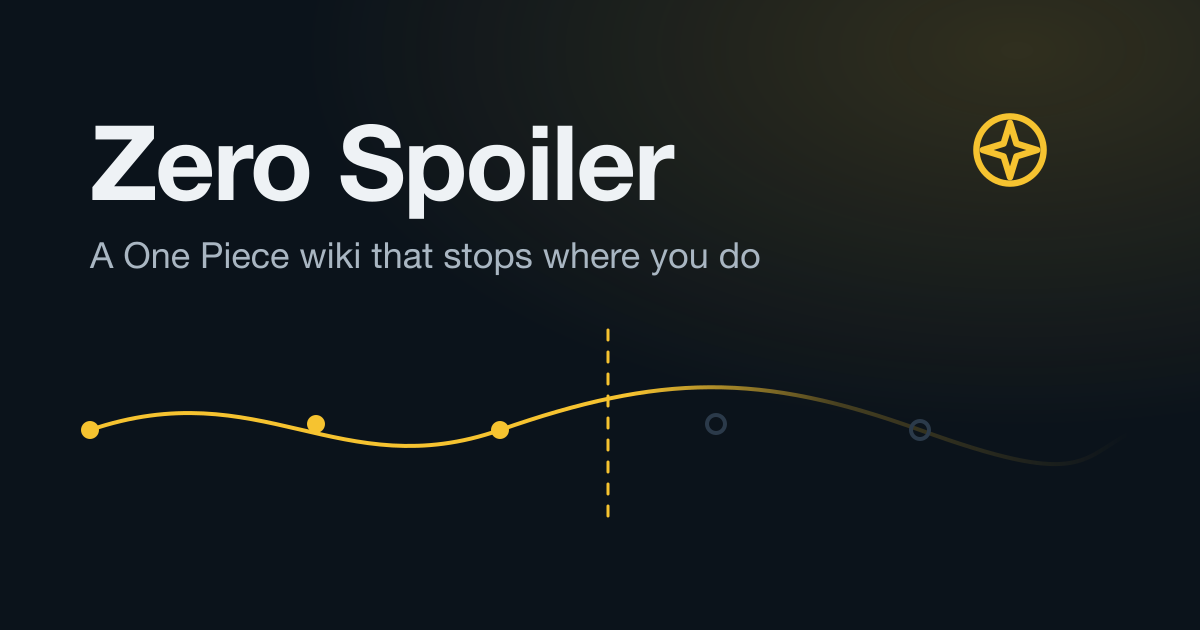
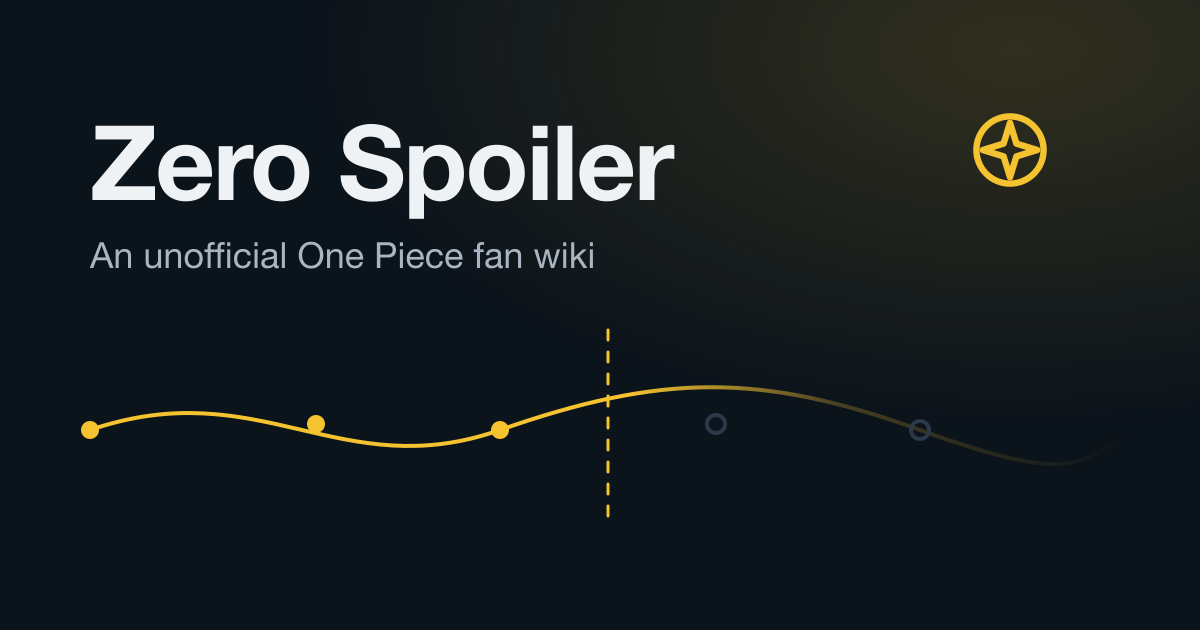
feat: identify unofficial fan project and provide rights contact

Changed region(s): [[0.0925, 0.3619, 0.6475, 0.4524]]

diff --git a/src/i18n/dictionaries/it.ts b/src/i18n/dictionaries/it.ts
@@ -12,9 +12,9 @@ export const itDictionary: Dictionary = {
   'site.name': 'Zero Spoiler',
   'site.title': 'Zero Spoiler | La wiki di One Piece senza spoiler',
   'site.description':
-    'Una wiki di One Piece che nasconde personaggi, saghe, luoghi e frutti del diavolo oltre l’ultimo episodio visto o l’ultimo capitolo letto.',
+    'Una wiki amatoriale non ufficiale di One Piece che nasconde personaggi, saghe, luoghi e frutti del diavolo oltre l’ultimo episodio visto o l’ultimo capitolo letto.',
   'seo.imageAlt':
-    'La card di Zero Spoiler: il logo sopra una rotta che sparisce nella nebbia.',
+    'La card della wiki amatoriale non ufficiale Zero Spoiler: il logo sopra una rotta che sparisce nella nebbia.',
 
   'nav.skip': 'Vai al contenuto',
   'nav.characters': 'Personaggi',
@@ -149,7 +149,16 @@ export const itDictionary: Dictionary = {
   'footer.lead':
     'Una wiki di One Piece che nasconde quello che viene dopo il tuo segnalibro.',
   'footer.colophon':
-    'Tutti i disegni sono fatti per questo sito e non ci sono immagini ufficiali. Il segnalibro viene salvato in un cookie su questo dispositivo. Licenza MIT.',
+    'Tutti i disegni sono fatti per questo sito e non ci sono immagini ufficiali. Il segnalibro viene salvato in un cookie su questo dispositivo. Codice del sito sotto licenza MIT; i diritti su One Piece sono esclusi.',
+
+  'footer.unofficial':
+    'Progetto amatoriale non ufficiale e senza scopo di lucro. Non è affiliato né approvato dai titolari dei diritti di One Piece.',
+  'footer.credits':
+    'One Piece è un’opera di Eiichiro Oda. Crediti dell’anime: © Eiichiro Oda/Shueisha, Toei Animation.',
+  'footer.creditSource': 'Fonte ufficiale dei crediti',
+  'footer.contact': 'Richieste sui diritti e correzioni su GitHub',
+  'footer.contactHelp':
+    'Indica l’URL della pagina, il materiale interessato e la richiesta sui diritti o la correzione. Evita spoiler nel titolo. Le issue GitHub sono pubbliche e richiedono un account. Non inserire informazioni riservate.',
 
   'characters.title': 'Personaggi',
   'characters.count':

diff --git a/src/components/SiteFooter.test.tsx b/src/components/SiteFooter.test.tsx
@@ -17,7 +17,23 @@ describe('SiteFooter', () => {
     expect(screen.getByRole('contentinfo')).toHaveTextContent(
       'Your bookmark is saved in a cookie on this device.',
     )
-    expect(screen.queryAllByRole('link')).toHaveLength(0)
+    expect(screen.getByRole('contentinfo')).toHaveTextContent(
+      'Unofficial, nonprofit fan project. Not affiliated with or endorsed by One Piece rights holders.',
+    )
+    expect(
+      screen.getByRole('link', {
+        name: 'Rights inquiries and corrections on GitHub',
+      }),
+    ).toHaveAttribute(
+      'href',
+      'https://github.com/cosimochellini/one-piece-zero-spoiler/issues/new?template=blank.md',
+    )
+    expect(screen.getByRole('contentinfo')).toHaveTextContent(
+      'Keep spoilers out of the title. GitHub issues are public and require an account. Do not post confidential information.',
+    )
+    expect(
+      screen.getByRole('link', { name: 'Official credit source' }),
+    ).toHaveAttribute('href', 'https://www.toei-animation.com/copyrights/')
   })
 
   it('follows the active locale', () => {
@@ -28,5 +44,22 @@ describe('SiteFooter', () => {
         'Una wiki di One Piece che nasconde quello che viene dopo il tuo segnalibro.',
       ),
     ).toBeInTheDocument()
+    expect(screen.getByRole('contentinfo')).toHaveTextContent(
+      'Progetto amatoriale non ufficiale e senza scopo di lucro.',
+    )
+    expect(screen.getByRole('contentinfo')).toHaveTextContent(
+      'Non è affiliato né approvato dai titolari dei diritti di One Piece.',
+    )
+    expect(
+      screen.getByRole('link', {
+        name: 'Richieste sui diritti e correzioni su GitHub',
+      }),
+    ).toHaveAttribute(
+      'href',
+      'https://github.com/cosimochellini/one-piece-zero-spoiler/issues/new?template=blank.md',
+    )
+    expect(screen.getByRole('contentinfo')).toHaveTextContent(
+      'Evita spoiler nel titolo. Le issue GitHub sono pubbliche e richiedono un account. Non inserire informazioni riservate.',
+    )
   })
 })

diff --git a/src/i18n/dictionaries/en.ts b/src/i18n/dictionaries/en.ts
@@ -18,9 +18,9 @@ export const enDictionary = {
   'site.name': 'Zero Spoiler',
   'site.title': 'Zero Spoiler | The One Piece wiki without spoilers',
   'site.description':
-    'A One Piece wiki that hides every character, arc, place and devil fruit you have not reached yet. Set the episode or chapter you are on and read up to there.',
+    'An unofficial One Piece fan wiki that hides every character, arc, place and devil fruit you have not reached yet. Set the episode or chapter you are on and read up to there.',
   'seo.imageAlt':
-    'The Zero Spoiler card: the logo above a route that disappears into fog.',
+    'The Zero Spoiler unofficial fan wiki card: the logo above a route that disappears into fog.',
 
   'nav.skip': 'Skip to content',
   'nav.characters': 'Characters',
@@ -150,7 +150,16 @@ export const enDictionary = {
 
   'footer.lead': 'A One Piece wiki that hides what comes after your bookmark.',
   'footer.colophon':
-    'All the drawings are made for this site; no official artwork is used. Your bookmark is saved in a cookie on this device. MIT licence.',
+    'All the drawings are made for this site; no official artwork is used. Your bookmark is saved in a cookie on this device. Site code under the MIT licence; One Piece rights are excluded.',
+
+  'footer.unofficial':
+    'Unofficial, nonprofit fan project. Not affiliated with or endorsed by One Piece rights holders.',
+  'footer.credits':
+    'One Piece was created by Eiichiro Oda. Anime credit: © Eiichiro Oda/Shueisha, Toei Animation.',
+  'footer.creditSource': 'Official credit source',
+  'footer.contact': 'Rights inquiries and corrections on GitHub',
+  'footer.contactHelp':
+    'Include the page URL, the material concerned and the rights inquiry or correction requested. Keep spoilers out of the title. GitHub issues are public and require an account. Do not post confidential information.',
 
   'characters.title': 'Characters',
   'characters.count':

diff --git a/src/components/SiteFooter.tsx b/src/components/SiteFooter.tsx
@@ -21,6 +21,25 @@ export function SiteFooter(): ReactElement {
         <b {...stylex.props(styles.lead)}>{t('footer.lead')}</b>{' '}
         {t('footer.colophon')}
       </p>
+      <p {...stylex.props(styles.colophon)}>{t('footer.unofficial')}</p>
+      <p {...stylex.props(styles.colophon)}>
+        {t('footer.credits')}{' '}
+        <a
+          {...stylex.props(styles.link)}
+          href="https://www.toei-animation.com/copyrights/"
+        >
+          {t('footer.creditSource')}
+        </a>
+      </p>
+      <p {...stylex.props(styles.colophon)}>
+        <a
+          {...stylex.props(styles.link)}
+          href="https://github.com/cosimochellini/one-piece-zero-spoiler/issues/new?template=blank.md"
+        >
+          {t('footer.contact')}
+        </a>{' '}
+        {t('footer.contactHelp')}
+      </p>
     </footer>
   )
 }
@@ -41,7 +60,17 @@ const styles = stylex.create({
     fontFamily: font.body,
     fontSize: text.base,
     lineHeight: leading.body,
+    marginBlockEnd: space.sm,
     maxWidth: '72ch',
+  },
+  link: {
+    color: color.ink2,
+    outlineColor: { 'default': 'transparent', ':focus-visible': color.focus },
+    outlineOffset: space.xs3,
+    outlineStyle: 'solid',
+    outlineWidth: rule.fine,
+    textDecorationLine: 'underline',
+    textUnderlineOffset: '3px',
   },
   lead: { color: color.ink2, fontWeight: 700 },
 })

diff --git a/README.md b/README.md
@@ -137,6 +137,35 @@ from either follows the same
 
 [MIT](LICENSE) © 2026 Cosimo Chellini.
 
-One Piece is created by Eiichiro Oda and owned by Shueisha and Toei Animation.
-This is an unofficial, non-commercial fan project. It contains no official
-artwork, scans or frames, and it is not endorsed by the rights holders.
+One Piece was created by Eiichiro Oda. The anime’s
+[official copyright credit](https://www.toei-animation.com/copyrights/) is ©
+Eiichiro Oda/Shueisha, Toei Animation. This credit is not an exhaustive list of
+rights holders.
+
+This is an unofficial, nonprofit fan project, not affiliated with or endorsed by
+One Piece rights holders. Its drawings are made for the site; it uses no
+official artwork, scans or frames. The MIT licence covers this project’s own
+contributions and does not grant rights to One Piece or other third-party
+material. Neither this notice nor the project’s nonprofit status grants
+permission to use third-party material.
+
+For rights inquiries or corrections,
+[open a GitHub issue](https://github.com/cosimochellini/one-piece-zero-spoiler/issues/new?template=blank.md).
+Include the page URL, the material concerned and your request. Keep spoilers out
+of the title. Issues are public and require a GitHub account; do not post
+confidential information.
+
+One Piece è un’opera di Eiichiro Oda. I crediti ufficiali dell’anime sono ©
+Eiichiro Oda/Shueisha, Toei Animation, senza pretendere di elencare tutti i
+titolari dei diritti. Questo è un progetto amatoriale non ufficiale e senza
+scopo di lucro, non affiliato né approvato dai titolari dei diritti. I disegni
+sono fatti per il sito; non usa immagini ufficiali, scansioni o fotogrammi. La
+licenza MIT copre i contributi propri del progetto e non concede diritti su One
+Piece o altri materiali di terzi. Né questa nota né l’assenza di scopo di lucro
+autorizzano l’uso di materiali di terzi.
+
+Per richieste sui diritti o correzioni,
+[apri una issue GitHub](https://github.com/cosimochellini/one-piece-zero-spoiler/issues/new?template=blank.md).
+Indica l’URL della pagina, il materiale interessato e la richiesta. Evita
+spoiler nel titolo. Le issue sono pubbliche e richiedono un account GitHub; non
+inserire informazioni riservate.
